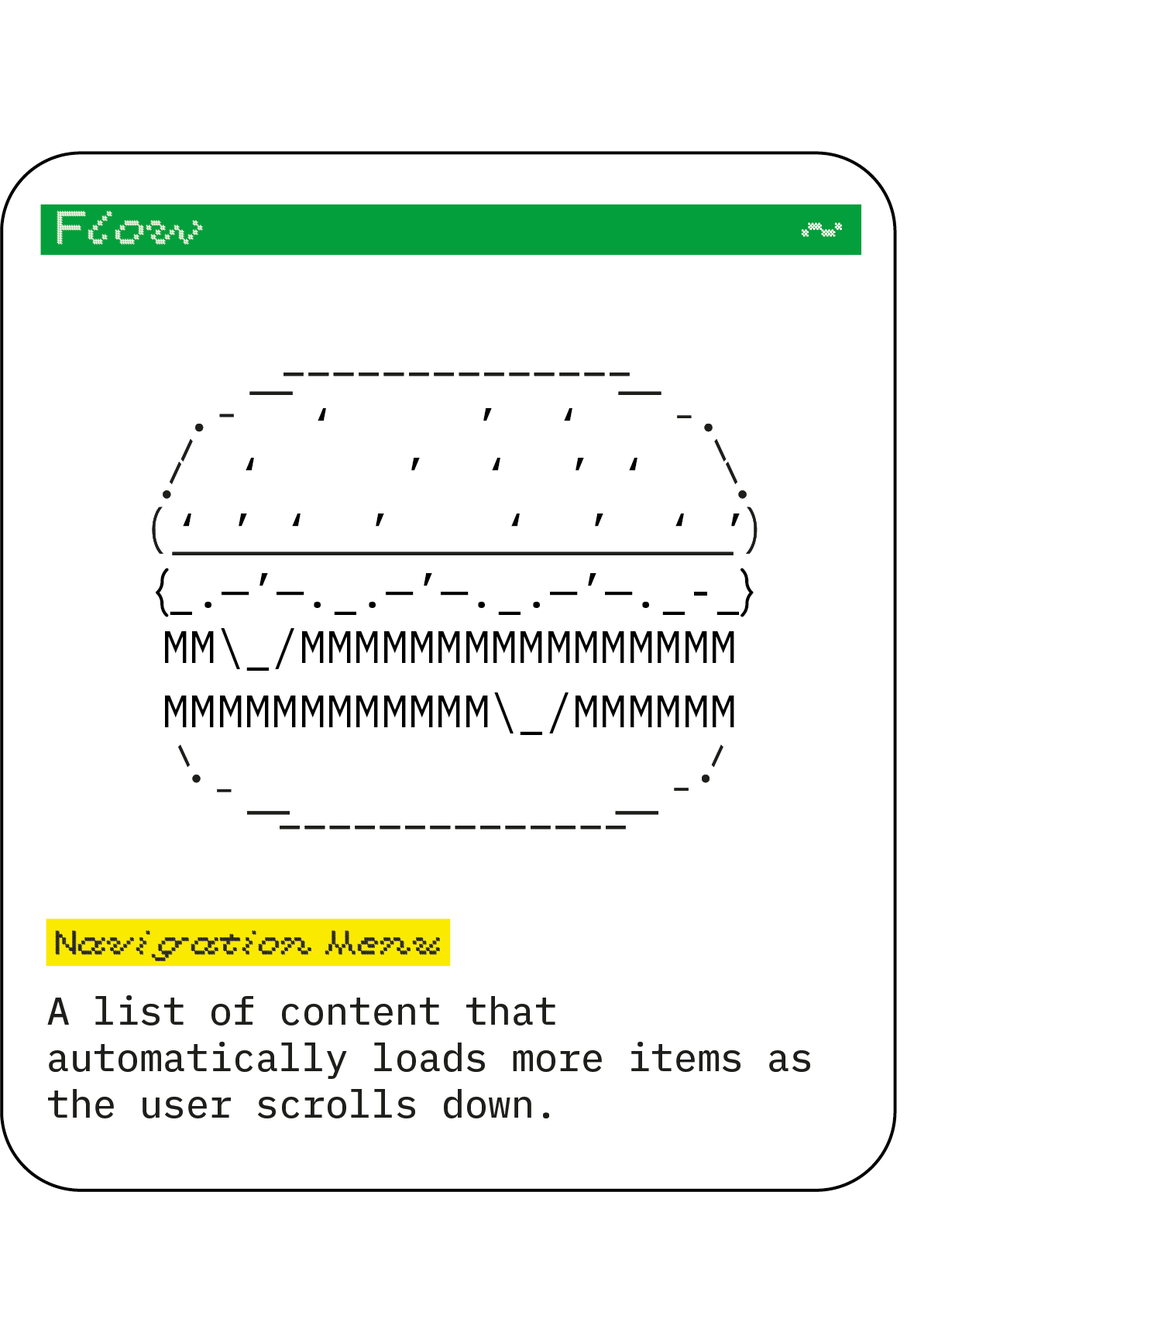
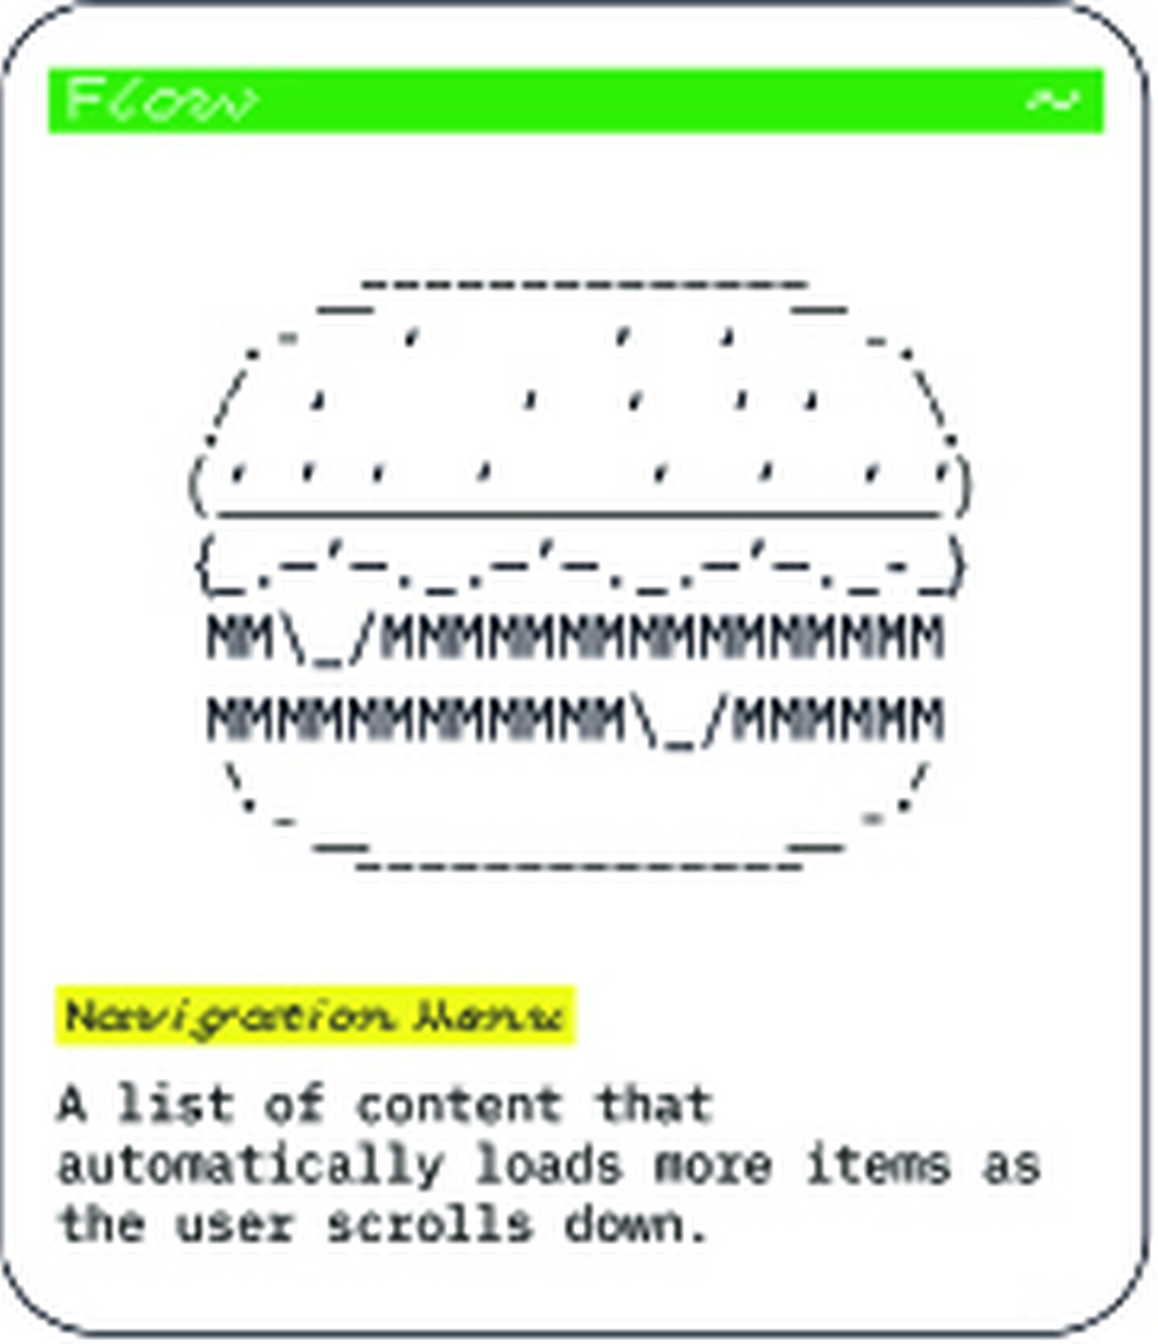
Add navigation menu & permission request to flow; smooth scroll fix; new images
- Navigation Menu and Permission Request added back to flow deck
- user-profile.png replaced with new image (userprofilenova.jpg)
- navigation-menu.png and permission-request.png updated with new images
- Desktop scroll switched to scrollIntoView smooth (off-thread, no stutter
  during physics collisions)

diff --git a/menu-match.html b/menu-match.html
@@ -1172,24 +1172,12 @@
       });
       await sleep(300);
     } else {
-      // Desktop: start scrolling almost immediately so the viewport moves down
-      // alongside the falling letters — making the collision with shapes visible.
+      // Desktop: use native browser smooth scroll (runs off main thread, won't
+      // stutter during physics collisions). Start early so letters fall visibly
+      // into the menu shapes as the viewport descends.
       await sleep(120);
-      const targetY = sectionMenu.getBoundingClientRect().top + window.scrollY;
-      await new Promise(resolve => {
-        const start = window.scrollY, dist = targetY - start;
-        const duration = 1800; // slow scroll so letters fall through the visible area
-        const startT = performance.now();
-        function step(now) {
-          const t = Math.min((now - startT) / duration, 1);
-          // ease-in-out but weighted toward ease-in so viewport moves early
-          const ease = t < 0.5 ? 2*t*t : -1+(4-2*t)*t;
-          window.scrollTo(0, start + dist * ease);
-          if (t < 1) requestAnimationFrame(step); else resolve();
-        }
-        requestAnimationFrame(step);
-      });
-      await sleep(400);
+      sectionMenu.scrollIntoView({ behavior: 'smooth' });
+      await sleep(2000);
     }
 
     // Prepare next phrase so the text is ready if they scroll back up
@@ -1636,6 +1624,8 @@
         { name: 'Add to Cart',                cat: 'Commerce',        desc: 'A call-to-action button that places an item into the user\'s virtual shopping cart.' },
         { name: 'Shopping Cart',              cat: 'Commerce',        desc: 'An overview page where users can review items and see a summary before proceeding to pay.' },
         { name: 'Payment Screen',             cat: 'Commerce',        desc: 'A secure interface to enter payment details, such as credit card information or digital wallet credentials.' },
+        { name: 'Navigation Menu',            cat: 'Structure',       desc: 'Menus, tabs and wayfinding elements that enable movement between sections and levels of the product.' },
+        { name: 'Permission Request',         cat: 'Alert',           desc: 'A prompt asking the user to grant or deny access to a device feature such as location, camera or notifications.' },
       ]
     },
     {